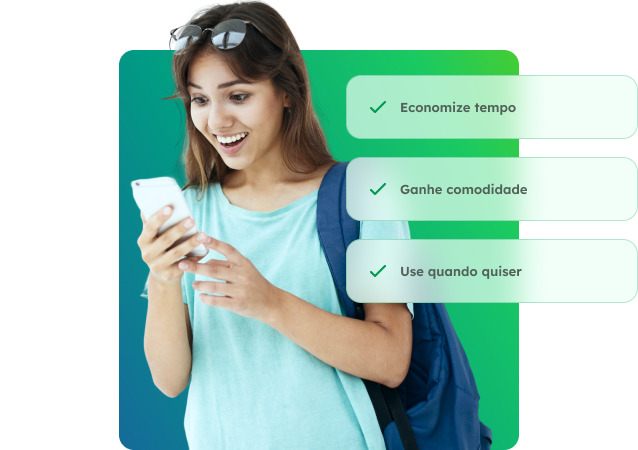
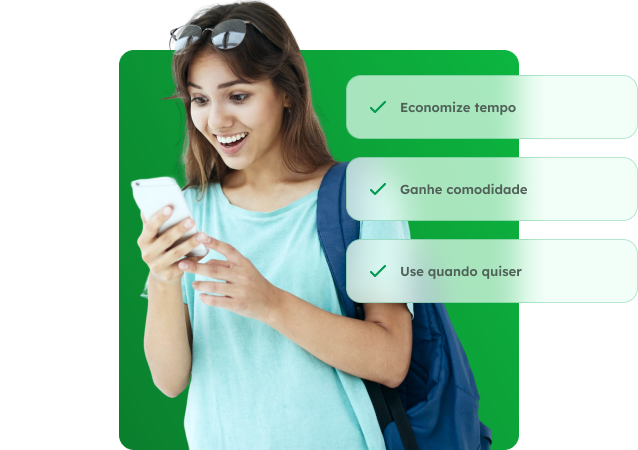
mudanca nas cores e copy

diff --git a/src/pages/LandingPage.jsx b/src/pages/LandingPage.jsx
@@ -25,7 +25,7 @@ export function LandingPage() {
     return (
         <div id='landing-page'>
             <header id='navigation'>
-                <img src={LogoNavigation} alt="FB" />
+                <img src={LogoNavigation} alt="Enem Guru" />
                 <nav className='page-navigation'>
                     <ul>
                         <li><a href="#unique-selling-proposition">O que é?</a></li>
@@ -34,7 +34,7 @@ export function LandingPage() {
                         <li><a href="#call-to-action">Como usar?</a></li>
                     </ul>
                 </nav>
-                <a href="https://api.whatsapp.com/send?phone=558588686378" target='blank'><button className='primary-button'>Experimente agora</button></a>
+                <a href="https://api.whatsapp.com/send?phone=5585988686378&text=Olá%20Guru!%20Me%20passa%20umas%20dicas%20sobre%20o%20que%20eu%20devo%20estudar%20nessa%20reta%20final%20para%20o%20ENEM!%20" target='blank'><button className='primary-button'>Experimente agora</button></a>
 
                 <i className='menu-burger-button' onClick={toggleMenu}><FaBars /></i>
 
@@ -51,7 +51,7 @@ export function LandingPage() {
                                 <li><a href="#features" onClick={toggleMenu}>O que faz?</a></li>
                                 <li><a href="#closing-argument" onClick={toggleMenu}>Por que usar?</a></li>
                                 <li><a href="#call-to-action" onClick={toggleMenu}>Como usar?</a></li>
-                                <li><a href="https://api.whatsapp.com/send?phone=558588686378" target='blank'><button className='primary-btn'>Experimente agora</button></a></li>
+                                <li><a href="https://api.whatsapp.com/send?phone=5585988686378&text=Olá%20Guru!%20Me%20passa%20umas%20dicas%20sobre%20o%20que%20eu%20devo%20estudar%20nessa%20reta%20final%20para%20o%20ENEM!%20" target='blank'><button className='primary-btn'>Experimente agora</button></a></li>
                             </ul>
                         </nav>
                     </div>
@@ -61,9 +61,9 @@ export function LandingPage() {
 
             <section id='hero'>
                 <div className="content">
-                    <h1>Sua nova assistente<br />pessoal de IA para<br /><em>a prova do Enem</em></h1>
-                    <p>A FBAI é uma inteligência artificial treinada exclusivamente para responder a perguntas sobre o Enem, escrever resumos, fornecer questões e dar dicas de estudos, tudo diretamente no seu WhatsApp. É fácil e simples de usar.</p>
-                    <a href="https://api.whatsapp.com/send?phone=558588686378" target='blank'><button>Experimente agora</button></a>
+                    <h1>Seu novo assistente<br />pessoal de IA para<br /><em>a prova do Enem</em></h1>
+                    <p>O Enem Guru é uma inteligência artificial treinada exclusivamente para responder a perguntas sobre o Enem, escrever resumos, fornecer questões e dar dicas de estudos, tudo diretamente no seu WhatsApp. É fácil e simples de usar.</p>
+                    <a href="https://api.whatsapp.com/send?phone=5585988686378&text=Olá%20Guru!%20Me%20passa%20umas%20dicas%20sobre%20o%20que%20eu%20devo%20estudar%20nessa%20reta%20final%20para%20o%20ENEM!%20" target='blank'><button>Experimente agora</button></a>
                 </div>
                 <div className="image">
                     <img src={HeroImage} alt="" />
@@ -77,31 +77,31 @@ export function LandingPage() {
                 <div className="content">
                     <h3>O que é?</h3>
                     <h2>Já pensou estudar para o <em>Enem no Whatsapp?</em></h2>
-                    <p>Agora é possível com A FBAI. A preparação para o Enem nunca foi tão conveniente quanto enviar uma mensagem e receber de forma instantânea tudo o que você precisa para seus estudos.</p>
+                    <p>Agora é possível com o Enem Guru. A preparação para o Enem nunca foi tão conveniente quanto enviar uma mensagem e receber de forma instantânea tudo o que você precisa para seus estudos.</p>
                 </div>
             </section>
 
             <section id="features">
                 <div className="content">
                     <h3>O que faz?</h3>
-                    <h2>O que você pode fazer com a <em>FBAI</em></h2>
+                    <h2>O que você pode fazer com o <em>Enem Guru</em></h2>
                     <p>Confira algumas das funcionalidades disponíveis para você.</p>
                 </div>
                 <div className="list">
                     <div className="item">
                         {/*<i className="icon">Icon</i>*/}
                         <h4>Resumos Instantâneos</h4>
-                        <p>FBAI produz resumos detalhados e precisos de tópicos específicos em questão de segundos.</p>
+                        <p>Enem Guru produz resumos detalhados e precisos de tópicos específicos em questão de segundos.</p>
                     </div>
                     <div className="item">
                         {/*<i className="icon">Icon</i>*/}
                         <h4>Respostas Comentadas</h4>
-                        <p>Com a FBAI, obtenha respostas comentadas que enriquecem sua compreensão do assunto.</p>
+                        <p>Com o Enem Guru, obtenha respostas comentadas que enriquecem sua compreensão do assunto.</p>
                     </div>
                     <div className="item">
                         {/*<i className="icon">Icon</i>*/}
                         <h4>Geração de Quiz</h4>
-                        <p>FBAI é capaz de produzir quizzes para você testar seus conhecimentos.</p>
+                        <p>Enem Guru é capaz de produzir quizzes para você testar seus conhecimentos.</p>
                     </div>
                     <div className="item">
                         {/*<i className="icon">Icon</i>*/}
@@ -114,7 +114,7 @@ export function LandingPage() {
             <section id="closing-argument">
                 <div className="content">
                     <h3>Por que usar?</h3>
-                    <h2>Além disso, a assistente possui uma linguagem acessível e de <em>fácil compreensão</em></h2>
+                    <h2>Além disso, o assistente possui uma linguagem acessível e de <em>fácil compreensão</em></h2>
                     <p>Isso significa que, independentemente do seu nível de conhecimento, você poderá aprender de forma eficaz, sem complicações.</p>
                 </div>
                 <div className="image">
@@ -125,10 +125,10 @@ export function LandingPage() {
             <section id='call-to-action'>
                 <div className="content">
                     <h3>Como usar?</h3>
-                    <h2>Descubra a facilidade de usar a FBAI para sua preparação do Enem</h2>
-                    <p>Inicie a conversa agora mesmo com a nossa assistente de IA e potencialize sua preparação para o Enem. O futuro do seu sucesso acadêmico está a apenas uma mensagem de distância.</p>
+                    <h2>Descubra a facilidade de usar o Enem Guru para sua preparação do Enem</h2>
+                    <p>Inicie a conversa agora mesmo com o nosso assistente de IA e potencialize sua preparação para o Enem. O futuro do seu sucesso acadêmico está a apenas uma mensagem de distância.</p>
                     <div className="cta-btns">
-                        <a href="https://api.whatsapp.com/send?phone=558588686378" target='blank'><button className="primary-btn">Experimente agora</button></a>
+                        <a href="https://api.whatsapp.com/send?phone=5585988686378&text=Olá%20Guru!%20Me%20passa%20umas%20dicas%20sobre%20o%20que%20eu%20devo%20estudar%20nessa%20reta%20final%20para%20o%20ENEM!%20" target='blank'><button className="primary-btn">Experimente agora</button></a>
                         {/*<button className="secondary-btn">Entre em contato</button>*/}
                     </div>
                 </div>
@@ -149,24 +149,24 @@ export function LandingPage() {
                 </div>
                 <div className="divisor"></div>
                 <div className="copy-and-social">
-                    <p>Copyright &copy; 2023 Sistema Farias Brito </p>
+                    <p>Copyright &copy; 2023. NeoCode Solutions </p>
                     <nav className="social">
                         <ul>
                             <li>
-                                <a href="https://www.instagram.com/fariasbrito" target='_blank'>
+                                <a href="https://www.instagram.com/neocodesolutions/" target='_blank'>
                                     <FaInstagram />
                                 </a>
                             </li>
-                            <li>
+                            {/**<li>
                                 <a href="#" target='_blank'>
                                     <FaFacebookF />
                                 </a>
-                            </li>
+                            </li>*/}
                             <li>
-                                <a href="#" target='_blank'>
+                                <a href="https://www.linkedin.com/company/neo-code-solutions/" target='_blank'>
                                     <FaLinkedinIn />
                                 </a>
-                            </li>
+                            </li>{/* 
                             <li>
                                 <a href="#" target='_blank'>
                                     <FaTwitter />
@@ -176,7 +176,7 @@ export function LandingPage() {
                                 <a href="#" target='_blank'>
                                     <FaYoutube />
                                 </a>
-                            </li>
+                            </li>*/}
                         </ul>
                     </nav>
                 </div>

diff --git a/src/styles/landing-page.scss b/src/styles/landing-page.scss
@@ -1,23 +1,23 @@
 #landing-page {
     h1 {
         font: 700 3.5em 'Lexend Deca', sans-serif;
-        color: #002914;
+        color: #292B36;
     }
 
     h2 {
         font: 700 3em 'Lexend Deca', sans-serif;
-        color: #002914;
+        color: #292B36;
     }
 
     h3 {
         font: 600 1em 'Lexend Deca', sans-serif;
         text-transform: uppercase;
-        color: #18639C;
+        color: #0DC143;
     }
 
     em {
         font-weight: 600;
-        color: #009951;
+        color: #0DC143;
     }
 
     p {
@@ -83,7 +83,7 @@
         align-items: center;
 
         background-color: #EBFFF5;
-        border: 1px solid #00995125;
+        border: 1px solid #292B3625;
         border-radius: 80px;
 
         width: calc(100vw - 30px);
@@ -100,22 +100,23 @@
             li {
                 a {
                     padding: 10px 20px;
-                    color: #002914;
+                    color: #292B36;
 
                     &:hover {
-                        color: #009951;
+                        color: #0DC143;
                     }
                 }
             }
         }
 
         .primary-button {
-            background: linear-gradient(90deg, #009951, #019B83);
+            //background: linear-gradient(90deg, #009951, #019B83);
+            background-color: #0DC143;
             color: #FFF;
         }
 
         .menu-burger-button {
-            color: #009951;
+            color: #0DC143;
             display: none;
         }
     }
@@ -130,7 +131,7 @@
         
         .container {
             padding: 40px 20px;
-            background-color: #009951;
+            background-color: #0DC143;
 
             width: 70%;
             height: 100%;
@@ -152,7 +153,9 @@
         }
 
         .primary-btn {
-            background: linear-gradient(90deg, #009951, #019B83);
+            //background: linear-gradient(90deg, #009951, #019B83);
+            background: linear-gradient(90deg, #0DC143, #0B9935);
+            //background-color: #05D544;
             border: 1px solid #FFFFFF30;
             color: #FFF;
         }
@@ -161,13 +164,14 @@
     #hero {
         .content {
             button {
-                background: linear-gradient(90deg, #009951, #019B83);
+                background: linear-gradient(90deg, #0DC143, #0B9935);
                 color: #FFF;
             }
         }
 
         .image {
-            background: linear-gradient(45deg, #73D100, #1AC962, #019B83, #18639C);
+            //background: linear-gradient(45deg, #73D100, #1AC962, #019B83, #18639C);
+            background: linear-gradient(45deg, #0DC143, #0B9935);
             border-radius: 20px;
 
             display: flex;
@@ -210,7 +214,7 @@
 
                 .icon {
                     background-color: #EBFFF5;
-                    border: 2px solid #00995125;
+                    border: 2px solid #292B3625;
                     border-radius: 21px;
                     height: 72px;
                     width: 72px;
@@ -222,7 +226,7 @@
 
                 h4 {
                     font: 600 1.5em 'Lexend', sans-serif;
-                    color: #002914;
+                    color: #292B36;
                 }
             }
         }
@@ -232,7 +236,7 @@
         .image {
             height: 400px;
             width: 100%;
-            background: linear-gradient(90deg, #009951, #019B83);
+            background: linear-gradient(90deg, #0DC143, #0B9935);
             border-radius: 20px;
             display: flex;
             justify-content: left;
@@ -246,7 +250,7 @@
     }
 
     #call-to-action {
-        background-color: #009951;
+        background-color: #0DC143;
 
         h2,
         h3,
@@ -262,11 +266,11 @@
 
             .primary-btn {
                 background-color: #FFF;
-                color: #009951;
+                color: #0B9935;
             }
 
             .secondary-btn {
-                background: linear-gradient(90deg, #009951, #019B83);
+                background: linear-gradient(90deg, #009951, #0B9935);
                 border: 1px solid #FFFFFF30;
                 color: #FFF;
             }
@@ -275,7 +279,7 @@
     }
 
     #footer {
-        background-color: #002914;
+        background-color: #292B36;
 
         .divisor {
             background-color: #FFFFFF30;
